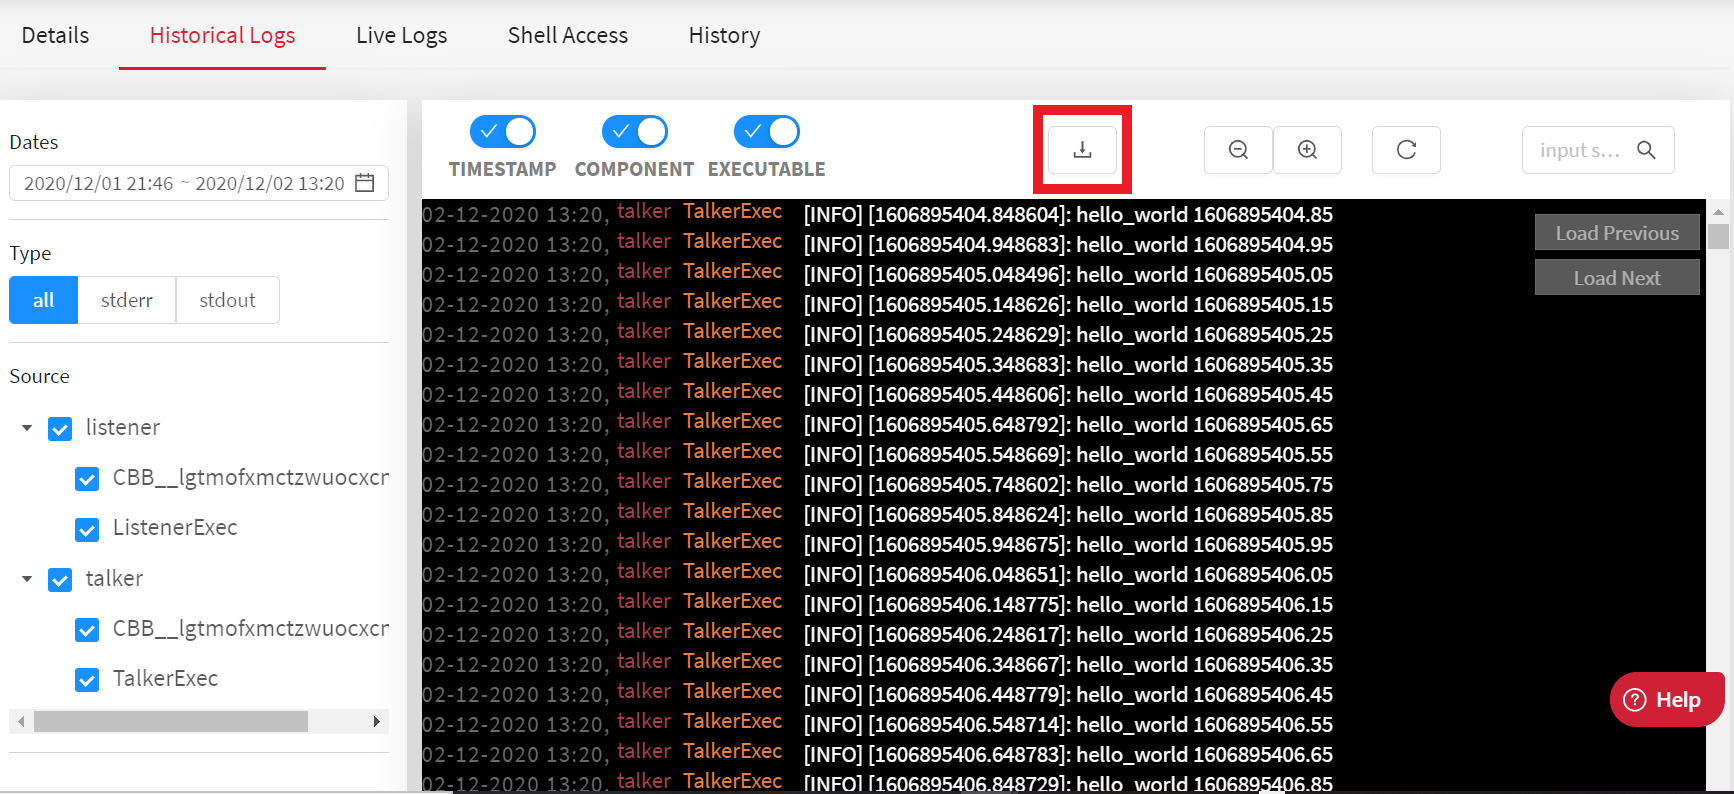
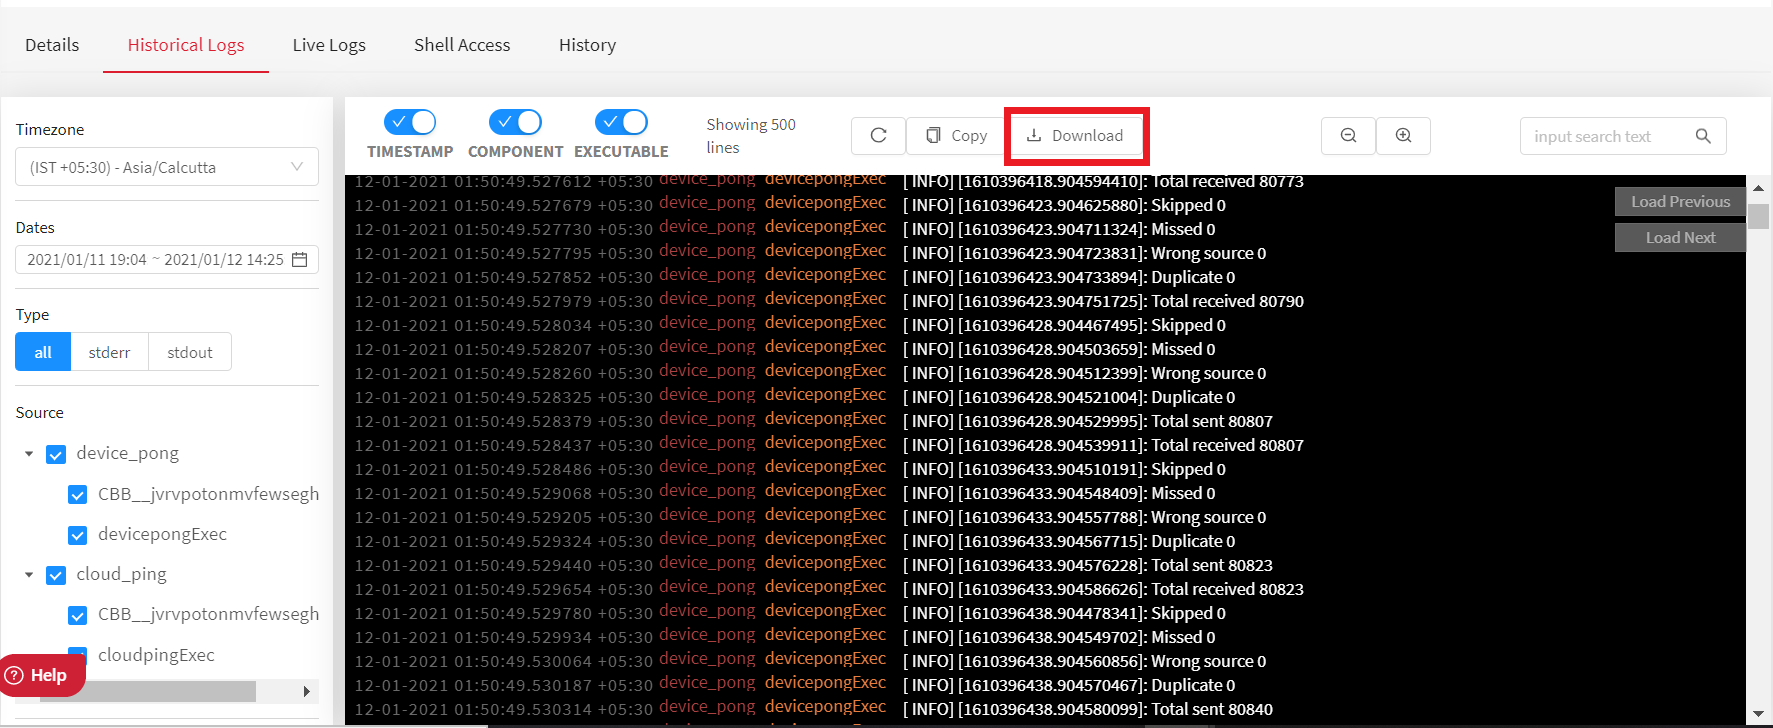
updated historical log documentation

diff --git a/hugo/content/developer-guide/tooling-automation/logging/deployment-logs.md b/hugo/content/developer-guide/tooling-automation/logging/deployment-logs.md
@@ -56,6 +56,8 @@ The historical logs are available based on the specified timezone. When you want
 
 The rapyuta.io platform also allow you to copy the historical log to a clip board for further analysis. Click the **Copy** button to copy the displayed log.
 
+![Copy logs](/images/core-concepts/logging/deployment-logs/historical-logs/copy-button.png?classes=border,shadow&width=50pc)
+
 You can also download historical logs of a deployment as a ***.log*** file by clicking the download button.
 ![Download logs](/images/core-concepts/logging/deployment-logs/historical-logs/download-button.png?classes=border,shadow&width=50pc)
 

diff --git a/CHANGELOG.md b/CHANGELOG.md
@@ -1,6 +1,10 @@
 # CHANGELOG
-## [Unreleased]
 
+
+## [Unreleased]
+## Added
+- Added copy functionality and timezone for historical log
+ 
 ## [3.1.0 - 2020-12-30]
 ## Added
 - Added DEV_E110 error code details
